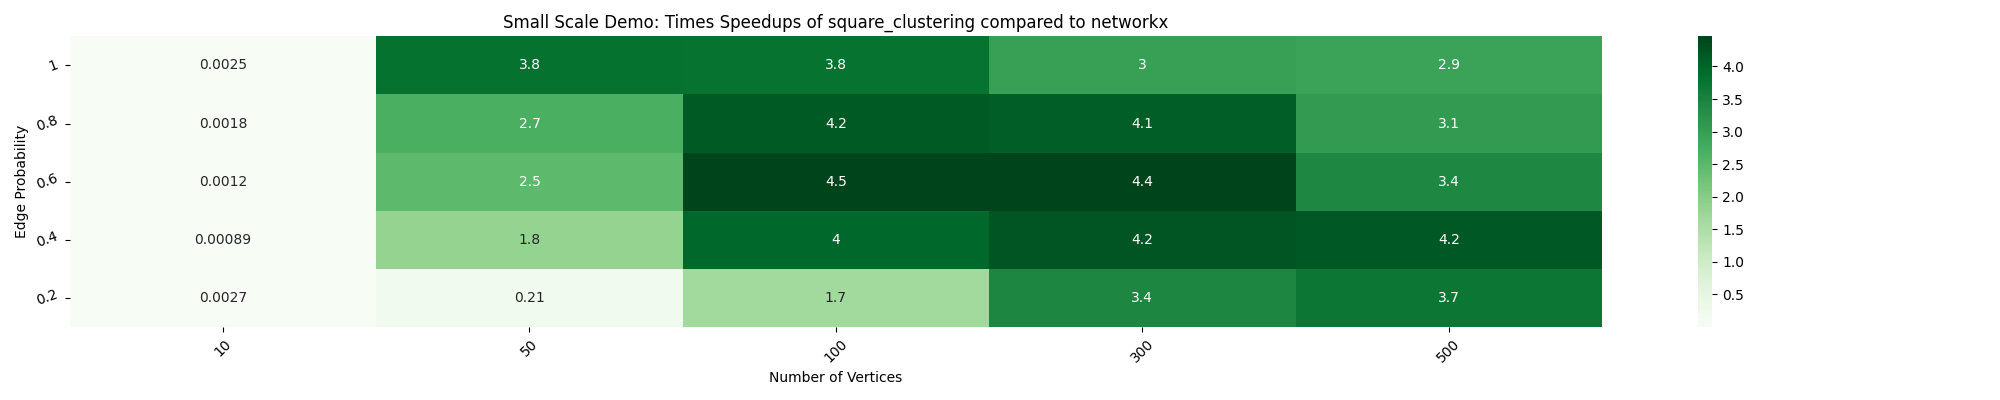
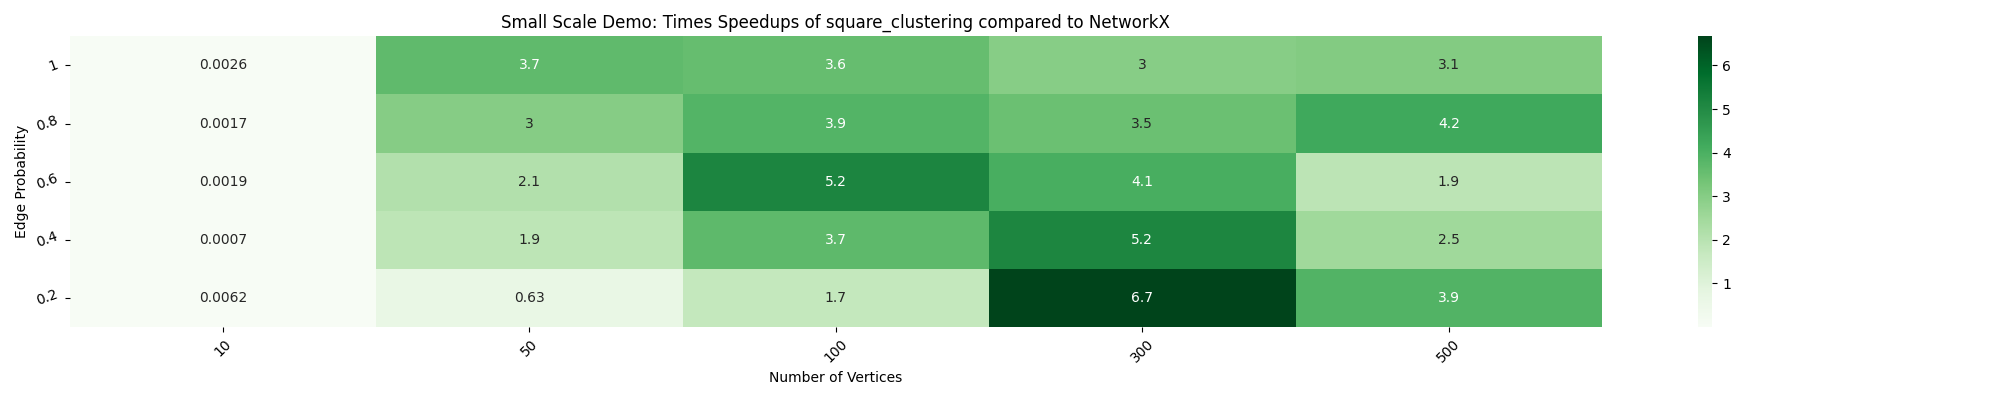
added get_chunks and updated heatmap(improved speedups), updated docs

diff --git a/nx_parallel/algorithms/cluster.py b/nx_parallel/algorithms/cluster.py
@@ -2,51 +2,26 @@ from itertools import combinations, chain
 from joblib import Parallel, delayed
 import nx_parallel as nxp
 
-__all__ = ["square_clustering_no_chunk", "square_clustering_chunk"]
+__all__ = [
+    "square_clustering",
+]
 
 
-def square_clustering_no_chunk(G, nodes=None):
-    """The squares clustering coefficient for nodes for all nodes
-    are computed in parallel over all available CPU cores.
+def square_clustering(G, nodes=None, get_chunks="chunks"):
+    """The nodes are chunked into `node_chunks` and then the square clustering
+    coefficient for all `node_chunks` are computed in parallel over all available
+    CPU cores.
+
+    Parameters
+    ------------
+    get_chunks : str, function (default = "chunks")
+        A function that takes in a list of all the nodes (or nbunch) as input and
+        returns an iterable `node_chunks`. The default chunking is done by slicing the
+        `nodes` into `n` chunks, where `n` is the number of CPU cores.
 
     networkx.square_clustering: https://networkx.org/documentation/stable/reference/algorithms/generated/networkx.algorithms.cluster.square_clustering.html
     """
 
-    def _compute_clustering(v):
-        clustering = 0
-        potential = 0
-        for u, w in combinations(G[v], 2):
-            squares = len((set(G[u]) & set(G[w])) - {v})
-            clustering += squares
-            degm = squares + 1
-            if w in G[u]:
-                degm += 1
-            potential += (len(G[u]) - degm) + (len(G[w]) - degm) + squares
-        if potential > 0:
-            clustering /= potential
-        return (v, clustering)
-
-    if hasattr(G, "graph_object"):
-        G = G.graph_object
-
-    if nodes is None:
-        node_iter = G
-    else:
-        node_iter = G.nbunch_iter(nodes)
-
-    total_cores = nxp.cpu_count()
-
-    result = Parallel(n_jobs=total_cores)(
-        delayed(_compute_clustering)(v) for v in node_iter
-    )
-    clustering = dict(result)
-
-    if nodes in G:
-        return clustering[nodes]
-    return clustering
-
-
-def square_clustering_chunk(G, nodes=None):
     def _compute_clustering_chunk(node_iter_chunk):
         result_chunk = []
         for v in node_iter_chunk:
@@ -73,8 +48,12 @@ def square_clustering_chunk(G, nodes=None):
         node_iter = list(G.nbunch_iter(nodes))
 
     total_cores = nxp.cpu_count()
-    num_in_chunk = max(min(len(node_iter) // total_cores, 10), 1)
-    node_iter_chunks = nxp.chunks(node_iter, num_in_chunk)
+
+    if get_chunks == "chunks":
+        num_in_chunk = max(len(node_iter) // total_cores, 1)
+        node_iter_chunks = nxp.chunks(node_iter, num_in_chunk)
+    else:
+        node_iter_chunks = get_chunks(node_iter)
 
     result = Parallel(n_jobs=total_cores)(
         delayed(_compute_clustering_chunk)(node_iter_chunk)

diff --git a/timing/timing_individual_function.py b/timing/timing_individual_function.py
@@ -14,7 +14,7 @@ heatmapDF = pd.DataFrame()
 number_of_nodes_list = [10, 50, 100, 300, 500]
 pList = [1, 0.8, 0.6, 0.4, 0.2]
 weighted = False
-currFun = nxp.square_clustering_chunk
+currFun = nx.square_clustering
 for p in pList:
     for num in number_of_nodes_list:
         # create original and parallel graphs
@@ -30,21 +30,19 @@ for p in pList:
 
         # time both versions and update heatmapDF
         t1 = time.time()
-        c1 = nxp.square_clustering_chunk(H)
-        if isinstance(c1, types.GeneratorType):
-            d = dict(c1)
+        c = nx.square_clustering(H)
+        if isinstance(c, types.GeneratorType):
+            d = dict(c)
         t2 = time.time()
-        newTime = t2 - t1
+        parallelTime = t2 - t1
         t1 = time.time()
-        c2 = nxp.square_clustering_no_chunk(H)
-        if isinstance(c2, types.GeneratorType):
-            d = dict(c2)
+        c = nx.square_clustering(G)
+        if isinstance(c, types.GeneratorType):
+            d = dict(c)
         t2 = time.time()
-        oldTime = t2 - t1
-        timesFaster = oldTime / newTime
+        stdTime = t2 - t1
+        timesFaster = stdTime / parallelTime
         heatmapDF.at[num, p] = timesFaster
-        print(num, p, timesFaster)
-        print(c1 == c2)
         print("Finished " + str(currFun))
 
 # Code to create for row of heatmap specifically for tournaments
@@ -77,7 +75,7 @@ hm.set_xticklabels(number_of_nodes_list)
 plt.xticks(rotation=45)
 plt.yticks(rotation=20)
 plt.title(
-    "Small Scale Demo: Times Speedups of " + currFun.__name__ + " - chunk vs no chunk"
+    "Small Scale Demo: Times Speedups of " + currFun.__name__ + " compared to NetworkX"
 )
 plt.xlabel("Number of Vertices")
 plt.ylabel("Edge Probability")

diff --git a/nx_parallel/interface.py b/nx_parallel/interface.py
@@ -7,7 +7,7 @@ from nx_parallel.algorithms.tournament import (
     tournament_is_strongly_connected,
 )
 from nx_parallel.algorithms.vitality import closeness_vitality
-# from nx_parallel.algorithms.cluster import square_clustering
+from nx_parallel.algorithms.cluster import square_clustering
 
 __all__ = ["Dispatcher", "ParallelGraph"]
 
@@ -51,7 +51,7 @@ class Dispatcher:
     all_pairs_bellman_ford_path = all_pairs_bellman_ford_path
 
     # Clustering
-    # square_clustering = square_clustering
+    square_clustering = square_clustering
 
     # =============================
 
